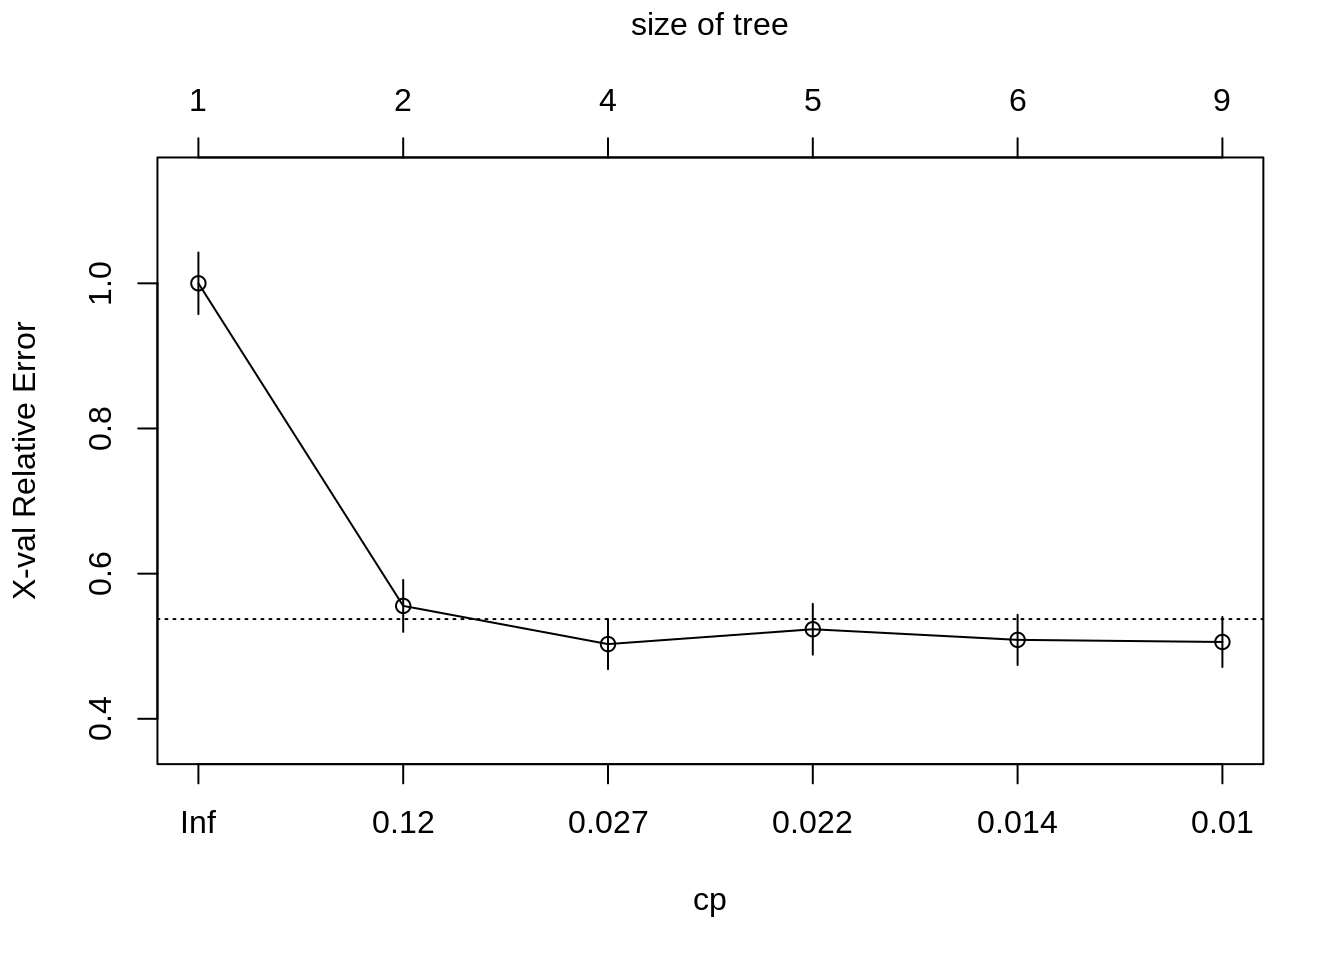
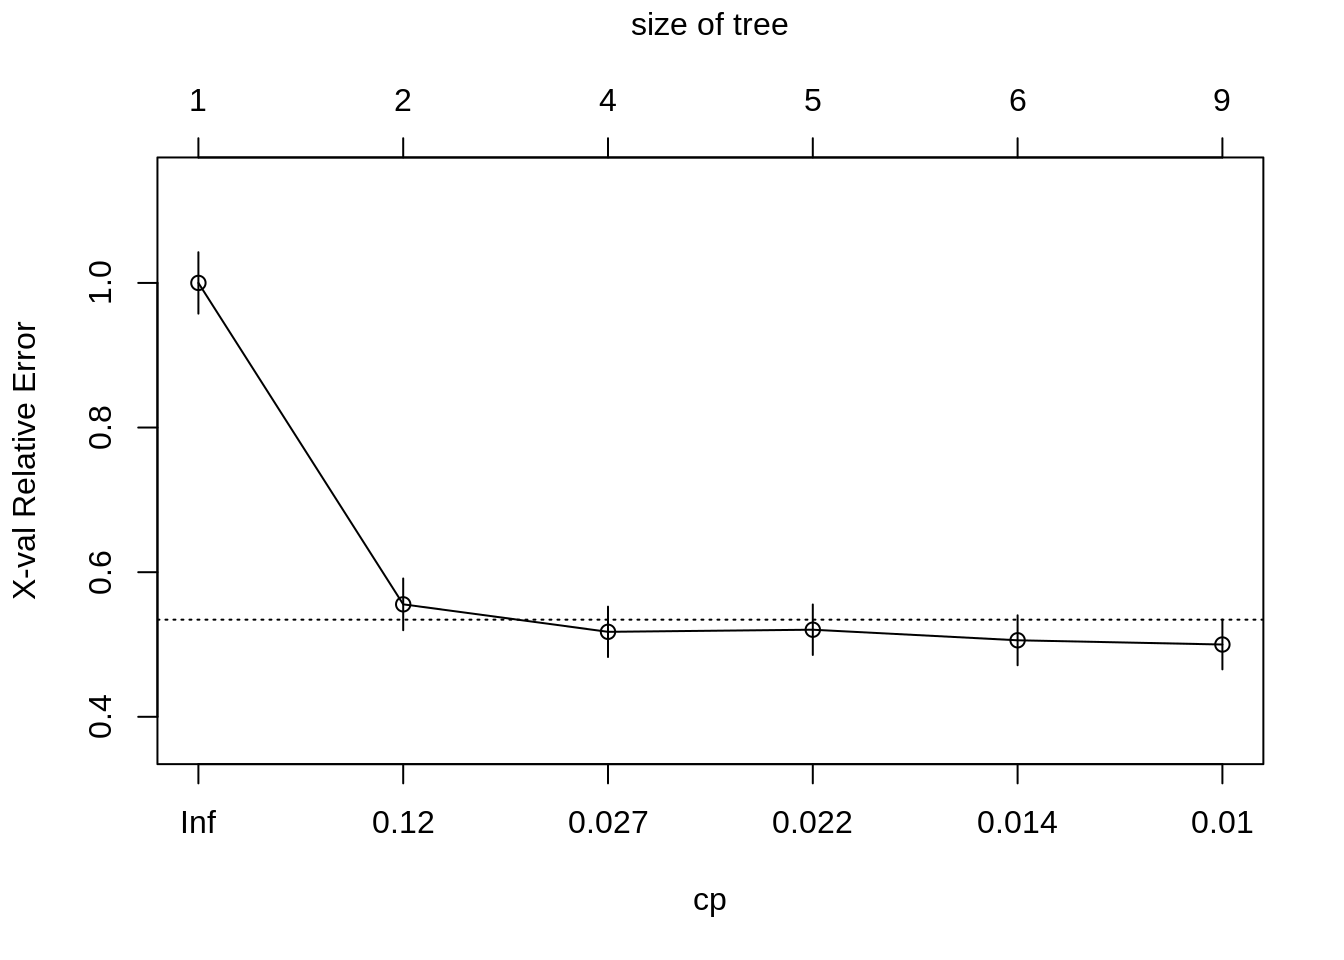
Deploy lebebr01/stat_thinking to github.com/lebebr01/stat_thinking.git:master

diff --git a/docs/classification.html b/docs/classification.html
@@ -324,10 +324,10 @@ titanic &lt;-<span class="st"> </span><span class="kw">bind_rows</span>(titanic_
 ##         CP nsplit rel error  xerror     xstd
 ## 1 0.444444      0   1.00000 1.00000 0.042446
 ## 2 0.030702      1   0.55556 0.55556 0.035750
-## 3 0.023392      3   0.49415 0.50292 0.034448
-## 4 0.020468      4   0.47076 0.52339 0.034970
-## 5 0.010234      5   0.45029 0.50877 0.034599
-## 6 0.010000      8   0.41813 0.50585 0.034524</code></pre>
+## 3 0.023392      3   0.49415 0.51754 0.034823
+## 4 0.020468      4   0.47076 0.52047 0.034897
+## 5 0.010234      5   0.45029 0.50585 0.034524
+## 6 0.010000      8   0.41813 0.50000 0.034372</code></pre>
 <div class="sourceCode"><pre class="sourceCode r"><code class="sourceCode r"><span class="kw">plotcp</span>(class_tree)</code></pre></div>
 <p><img src="05-classification_files/figure-html/unnamed-chunk-6-1.png" width="672" /></p>
 <div class="sourceCode"><pre class="sourceCode r"><code class="sourceCode r">prune_class_tree &lt;-<span class="st"> </span><span class="kw">prune</span>(class_tree, <span class="dt">cp =</span> .<span class="dv">02</span>)

diff --git a/docs/05-classification.md b/docs/05-classification.md
@@ -249,10 +249,10 @@ printcp(class_tree)
 ##         CP nsplit rel error  xerror     xstd
 ## 1 0.444444      0   1.00000 1.00000 0.042446
 ## 2 0.030702      1   0.55556 0.55556 0.035750
-## 3 0.023392      3   0.49415 0.50292 0.034448
-## 4 0.020468      4   0.47076 0.52339 0.034970
-## 5 0.010234      5   0.45029 0.50877 0.034599
-## 6 0.010000      8   0.41813 0.50585 0.034524
+## 3 0.023392      3   0.49415 0.51754 0.034823
+## 4 0.020468      4   0.47076 0.52047 0.034897
+## 5 0.010234      5   0.45029 0.50585 0.034524
+## 6 0.010000      8   0.41813 0.50000 0.034372
 ```
 
 ```r
